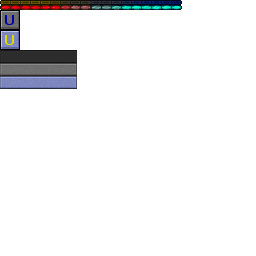
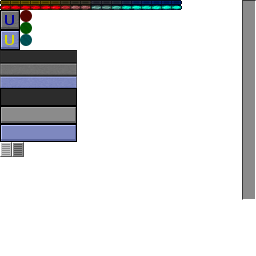
Working on the quest gui

Changed region(s): [[0.0, 0.3438, 0.3125, 0.625], [0.9375, 0.0, 1.0, 0.7812], [0.0625, 0.0312, 0.125, 0.1875]]

diff --git a/forge/mcp/src/minecraft/demonmodders/crymod/common/quest/QuestKillEntity.java b/forge/mcp/src/minecraft/demonmodders/crymod/common/quest/QuestKillEntity.java
@@ -22,11 +22,29 @@ import demonmodders.crymod.common.entities.EntityQuester;
 import demonmodders.crymod.common.playerinfo.PlayerInformation;
 
 public class QuestKillEntity extends Quest {
+	
+	private static final String[] DESCRIBING = new String[] {
+		"Amazing",
+		"Massive",
+		"Crazy",
+		"Terrible",
+		"Disasterous",
+		"Unfortunate",
+		"Nasty",
+		"Bad"
+	};
+	
+	private static final String[] FINISH = new String[] {
+		"Infestation",
+		"Outbreak"
+	};
 
 	private Class<? extends EntityLiving> toKill;
 	private int neededKillCount;
 	
 	private int killed = 0;
+	private int describingWord = 0;
+	private int finalWord = 0;
 	
 	public QuestKillEntity(UUID questerUid) {
 		super(questerUid);
@@ -43,6 +61,8 @@ public class QuestKillEntity extends Quest {
 		toKill = (Class<? extends EntityLiving>) EntityList.stringToClassMapping.get(nbt.getString("targetType"));
 		neededKillCount = nbt.getInteger("killCount");
 		killed = nbt.getInteger("killed");
+		describingWord = nbt.getByte("descr");
+		finalWord = nbt.getByte("final");
 	}
 
 	@Override
@@ -50,18 +70,24 @@ public class QuestKillEntity extends Quest {
 		nbt.setString("targetType", (String)EntityList.classToStringMapping.get(toKill));
 		nbt.setInteger("killCount", neededKillCount);
 		nbt.setInteger("killed", killed);
+		nbt.setByte("descr", (byte) describingWord);
+		nbt.setByte("final", (byte) finalWord);
 	}
 	
 	@Override
 	protected void writeData(ByteArrayDataOutput out) {
 		out.writeUTF((String)EntityList.classToStringMapping.get(toKill));
 		out.writeInt(neededKillCount);
+		out.writeByte(describingWord);
+		out.writeByte(finalWord);
 	}
 
 	@Override
 	protected void readData(ByteArrayDataInput in) {
 		toKill = (Class<? extends EntityLiving>) EntityList.stringToClassMapping.get(in.readUTF());
 		neededKillCount = in.readInt();
+		describingWord = in.readUnsignedByte();
+		finalWord = in.readUnsignedByte();
 	}
 
 	@Override
@@ -81,7 +107,7 @@ public class QuestKillEntity extends Quest {
 			recheck();
 		}
 	}
-
+	
 	@Override
 	public void makeRandom(Random random) {
 		switch (random.nextInt(4)) {
@@ -99,16 +125,29 @@ public class QuestKillEntity extends Quest {
 			break;
 		}
 		neededKillCount = 3 + random.nextInt(5);
+		describingWord = random.nextInt(DESCRIBING.length);
+		finalWord = random.nextInt(FINISH.length);
 	}
 
 	@Override
 	public String getTitle() {
 		String entityName = (String) EntityList.classToStringMapping.get(toKill);
 		return new StringBuilder()
-		.append("Kill ")
-		.append(neededKillCount)
-		.append(" of ")
+		.append(DESCRIBING[describingWord])
+		.append(" ")
 		.append(StringTranslate.getInstance().translateKey("entity." + Strings.nullToEmpty(entityName) + ".name"))
+		.append(" ")
+		.append(FINISH[finalWord])
 		.toString();
+	}
+
+	@Override
+	public QuestType getQuestType() {
+		return QuestType.EVIL;
+	}
+
+	@Override
+	public String getQuestDescription() {
+		return "Some Random Text jiiiihahaaaa foobarus maximus " + new Random().nextFloat() + " " + new Random().nextFloat() + " " + new Random().nextFloat();
 	}
 }

diff --git a/forge/mcp/src/minecraft/demonmodders/crymod/client/gui/GuiQuests.java b/forge/mcp/src/minecraft/demonmodders/crymod/client/gui/GuiQuests.java
@@ -1,22 +1,59 @@
 package demonmodders.crymod.client.gui;
 
+import java.util.List;
+
+import net.minecraft.client.gui.GuiButton;
 import net.minecraft.inventory.IInventory;
-import demonmodders.crymod.client.gui.button.GuiButtonTextOnly;
+
+import org.lwjgl.opengl.GL11;
+
+import com.google.common.base.Splitter;
+import com.google.common.base.Strings;
+import com.google.common.collect.Lists;
+
+import demonmodders.crymod.client.gui.button.GuiButtonQuest;
 import demonmodders.crymod.common.container.ContainerQuests;
 import demonmodders.crymod.common.quest.Quest;
 
 public class GuiQuests extends AbstractGuiContainer<ContainerQuests, IInventory> {
 
+	private String[] questDescription = null;
+	
+	public int activeBtn = 1;
+	
 	public GuiQuests(ContainerQuests container) {
 		super(container);
+		xSize = 248;
+		ySize = 190;
 	}
 
 	@Override
 	public void initGui() {
+		super.initGui();
 		int btnCount = 0;
 		for (Quest quest : container.getQuester().getQuests()) {
-			controlList.add(new GuiButtonTextOnly(-btnCount, 10, 10 + (fontRenderer.FONT_HEIGHT + 3) * btnCount, quest.getTitle(), fontRenderer));
+			controlList.add(new GuiButtonQuest(-btnCount, guiLeft + 14, guiTop + 32 + 18 * btnCount, quest, this));
 			btnCount++;
+		}
+	}
+	
+	@Override
+	protected void actionPerformed(GuiButton button) {
+		super.actionPerformed(button);
+		if (button.id <= 0) {
+			int maxWidth = 120;
+			activeBtn = button.id;
+			List<String> descriptionBuffer = Lists.newArrayList();
+			Iterable<String> splitted = Splitter.on(' ').omitEmptyStrings().trimResults().split(container.getQuester().getQuests().get(-button.id).getQuestDescription());
+			for (String splitPart : splitted) {
+				int splitPartWidth = fontRenderer.getStringWidth(splitPart);
+				if (descriptionBuffer.isEmpty() || (fontRenderer.getStringWidth(descriptionBuffer.get(descriptionBuffer.size() - 1)) + splitPartWidth) > maxWidth) {
+					descriptionBuffer.add(splitPart);
+				} else {
+					descriptionBuffer.set(descriptionBuffer.size() - 1, descriptionBuffer.get(descriptionBuffer.size() - 1) + " " + splitPart);
+				}
+			}
+			questDescription = descriptionBuffer.toArray(new String[descriptionBuffer.size()]);
 		}
 	}
 
@@ -28,5 +65,24 @@ public class GuiQuests extends AbstractGuiContainer<ContainerQuests, IInventory>
 	@Override
 	public boolean doesGuiPauseGame() {
 		return false;
+	}
+
+	@Override
+	protected void drawGuiContainerForegroundLayer(int par1, int par2) {
+		super.drawGuiContainerForegroundLayer(par1, par2);
+		float scale = 0.5F;
+		int y = 29;
+		GL11.glPushMatrix();
+		GL11.glTranslatef(155 * (1 - scale), y * (1 - scale), 0);
+		GL11.glScalef(scale, scale, scale);
+		
+		if (questDescription != null) {
+			for (String descr : questDescription) {
+				fontRenderer.drawString(descr, 155, y, 0x000000);
+				y += fontRenderer.FONT_HEIGHT + 2;
+			}
+		}
+		
+		GL11.glPopMatrix();
 	}
 }

diff --git a/forge/mcp/src/minecraft/demonmodders/crymod/client/gui/button/GuiButtonQuest.java b/forge/mcp/src/minecraft/demonmodders/crymod/client/gui/button/GuiButtonQuest.java
@@ -1,0 +1,73 @@
+package demonmodders.crymod.client.gui.button;
+
+import org.lwjgl.opengl.GL11;
+
+import demonmodders.crymod.client.gui.GuiQuests;
+import demonmodders.crymod.common.quest.Quest;
+import net.minecraft.client.Minecraft;
+import net.minecraft.client.gui.GuiButton;
+
+public class GuiButtonQuest extends GuiButton {
+
+	private static final float SCALE_TITLE = 0.75F;
+	
+	private final Quest quest;
+	private final GuiQuests gui;
+	
+	public GuiButtonQuest(int id, int x, int y, Quest quest, GuiQuests gui) {
+		super(id, x, y, 110, 18, quest.getTitle());
+		this.quest = quest;
+		this.gui = gui;
+	}
+	
+	@Override
+	public void drawButton(Minecraft mc, int mouseX, int mouseY) {
+		if (drawButton) {
+			field_82253_i = gui.activeBtn == id || mouseX >= xPosition && mouseY >= yPosition && mouseX < xPosition + width && mouseY < yPosition + height;
+			int color = 14737632;
+
+			if (!enabled) {
+				color = -6250336;
+			} else if (this.field_82253_i) {
+				color = 16777120;
+			}
+			
+			int hoverState = getHoverState(field_82253_i);
+			mc.renderEngine.bindTexture(mc.renderEngine.getTexture("/demonmodders/crymod/resource/tex/gui.png"));
+			GL11.glColor3f(1, 1, 1);
+			drawTexturedModalRect(xPosition, yPosition, 0, 88 + hoverState * 18, width / 2, height);
+			drawTexturedModalRect(xPosition + width / 2, yPosition, 77 - this.width / 2, 88 + hoverState * 18, width / 2, height);
+
+			int yOffsetType;
+			switch (quest.getQuestType()) {
+			case EVIL:
+				yOffsetType = 10;
+				break;
+			case GOOD:
+				yOffsetType = 22;
+				break;
+			default:
+				yOffsetType = 34;
+			}
+			
+			GL11.glMatrixMode(GL11.GL_MODELVIEW);
+			GL11.glPushMatrix();
+			
+			int xPositionButton = xPosition + width - 9;
+			int yPositionButton = yPosition + 3;
+			
+			GL11.glTranslatef((xPositionButton) * 0.5F, yPositionButton * 0.5F, 0.5F);
+			GL11.glScalef(0.5F, 0.5F, 0.5F);
+			drawTexturedModalRect(xPositionButton, yPositionButton, 20, yOffsetType, 12, 12);
+			GL11.glPopMatrix();
+			
+			GL11.glPushMatrix();
+			GL11.glTranslatef(xPosition * (1F - SCALE_TITLE), yPosition * (1F - SCALE_TITLE), 0);
+			GL11.glScalef(SCALE_TITLE, SCALE_TITLE, 1);
+			
+			drawString(mc.fontRenderer, displayString, xPosition + 3, yPosition + 11, color);
+			GL11.glPopMatrix();
+		}
+	}
+
+}

diff --git a/forge/mcp/src/minecraft/demonmodders/crymod/client/gui/button/GuiButtonTextOnly.java b/forge/mcp/src/minecraft/demonmodders/crymod/client/gui/button/GuiButtonTextOnly.java
@@ -8,10 +8,10 @@ import net.minecraft.client.gui.GuiButton;
 
 public class GuiButtonTextOnly extends GuiButton {
 
-	public GuiButtonTextOnly(int id, int x, int y, String text, FontRenderer fontRenderer) {
-		super(id, x, y, fontRenderer.getStringWidth(text), fontRenderer.FONT_HEIGHT, text);
+	public GuiButtonTextOnly(int id, int x, int y, int width, int height, String text) {
+		super(id, x, y, width, height, text);
 	}
-
+	
 	@Override
 	public void drawButton(Minecraft mc, int mouseX, int mouseY) {
 		if (drawButton) {
@@ -23,8 +23,8 @@ public class GuiButtonTextOnly extends GuiButton {
 			} else if (this.field_82253_i) {
 				color = 16777120;
 			}
-
-			drawCenteredString(mc.fontRenderer, displayString, xPosition + width / 2, yPosition, color);
+			
+			drawString(mc.fontRenderer, displayString, xPosition, yPosition, color);
 		}
 	}
 

diff --git a/forge/mcp/src/minecraft/demonmodders/crymod/common/quest/Quest.java b/forge/mcp/src/minecraft/demonmodders/crymod/common/quest/Quest.java
@@ -156,6 +156,10 @@ public abstract class Quest {
 		return quest;
 	}
 	
+	public abstract QuestType getQuestType();
+	
+	public abstract String getQuestDescription();
+	
 	protected abstract void writeData(ByteArrayDataOutput out);
 	
 	protected abstract void readData(ByteArrayDataInput in);
@@ -211,6 +215,10 @@ public abstract class Quest {
 			quests.add(quest);
 			quest.setPlayer(player); // that method can deal with null
 		}
+	}
+	
+	public static enum QuestType {
+		EVIL, NEUTRAL, GOOD
 	}
 	
 	private static final BiMap<Integer, Class<? extends Quest>> questTypes = HashBiMap.create();

diff --git a/forge/mcp/src/minecraft/demonmodders/crymod/common/container/ContainerQuests.java b/forge/mcp/src/minecraft/demonmodders/crymod/common/container/ContainerQuests.java
@@ -24,7 +24,7 @@ public class ContainerQuests extends AbstractContainer<IInventory> {
 
 	@Override
 	public boolean handleButtonClick(int buttonId) {
-		return buttonId <= 0;
+		return false;//buttonId <= 0;
 	}
 
 	@Override
@@ -41,5 +41,10 @@ public class ContainerQuests extends AbstractContainer<IInventory> {
 				}
 			}
 		}
+	}
+
+	@Override
+	public boolean canInteractWith(EntityPlayer player) {
+		return quester.isEntityAlive() && player.getDistanceSqToEntity(quester) <= 64;
 	}
 }
